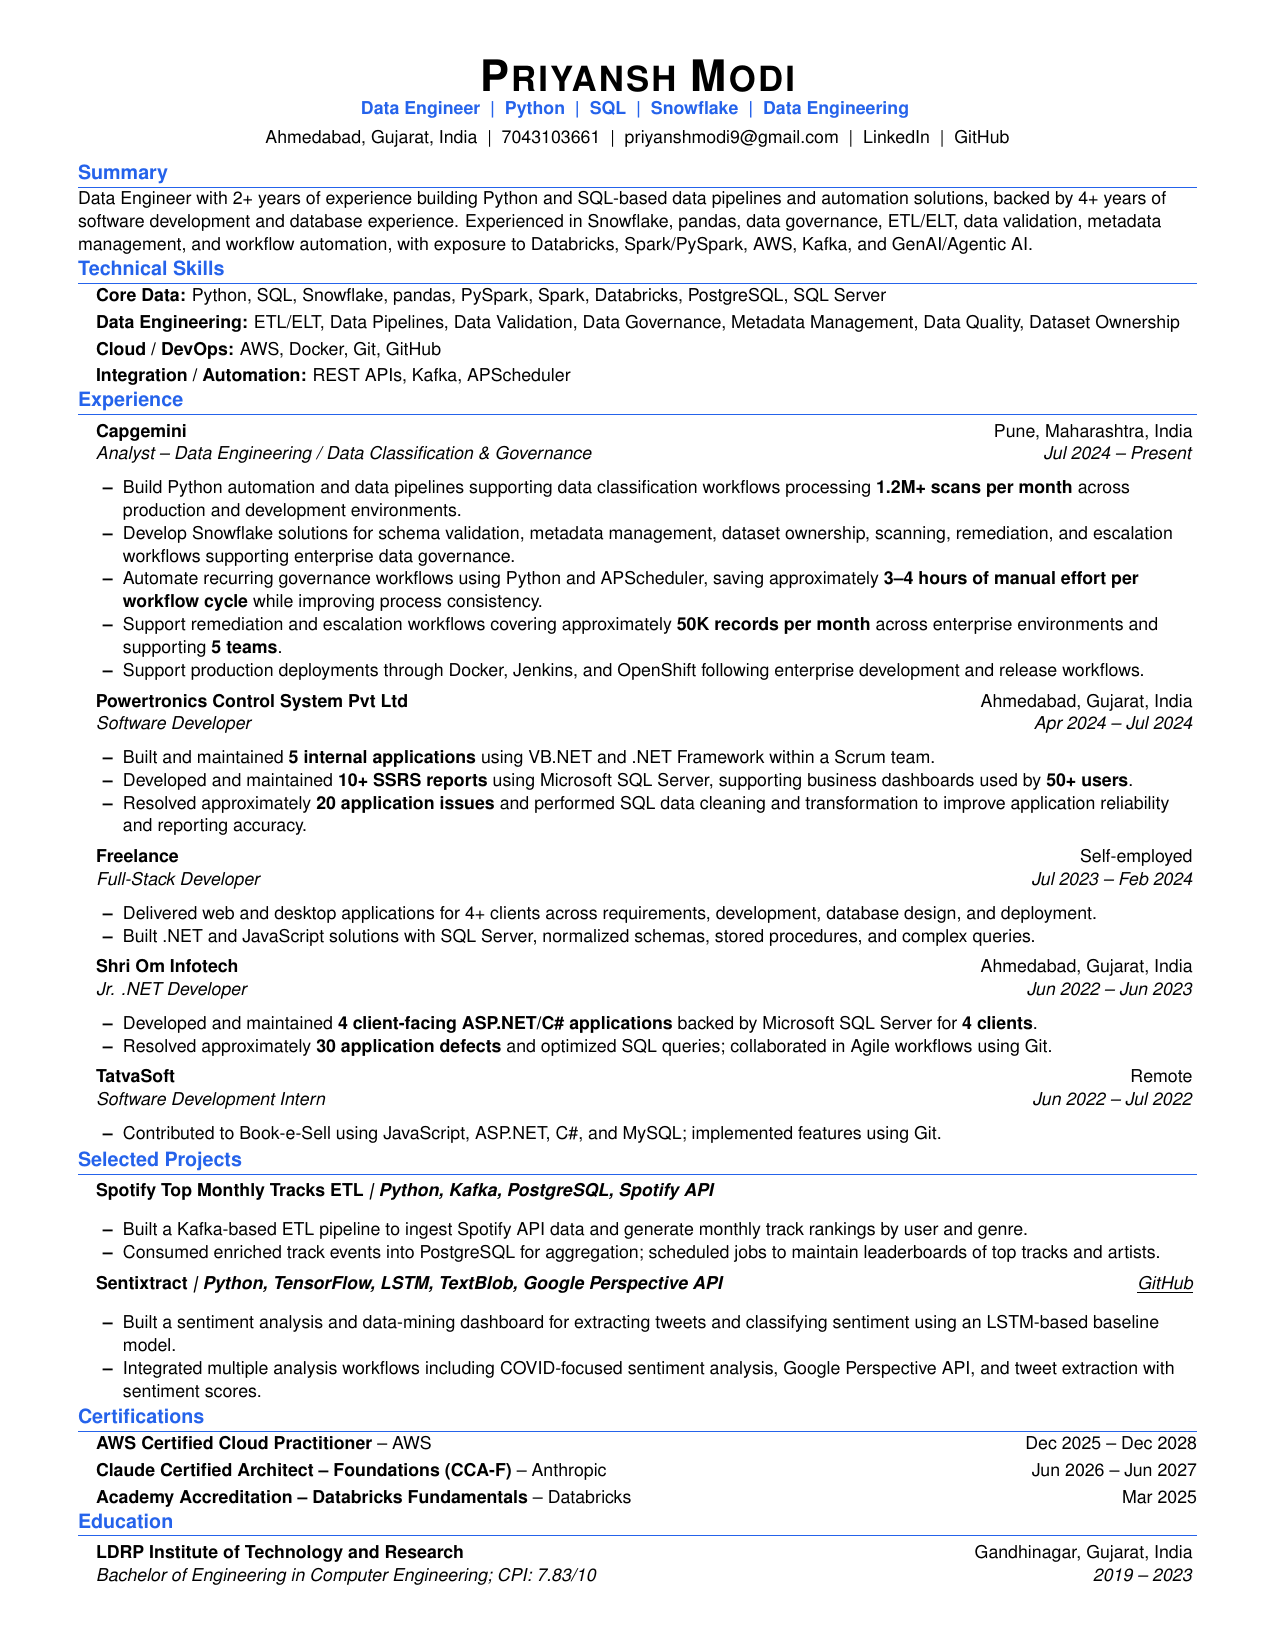
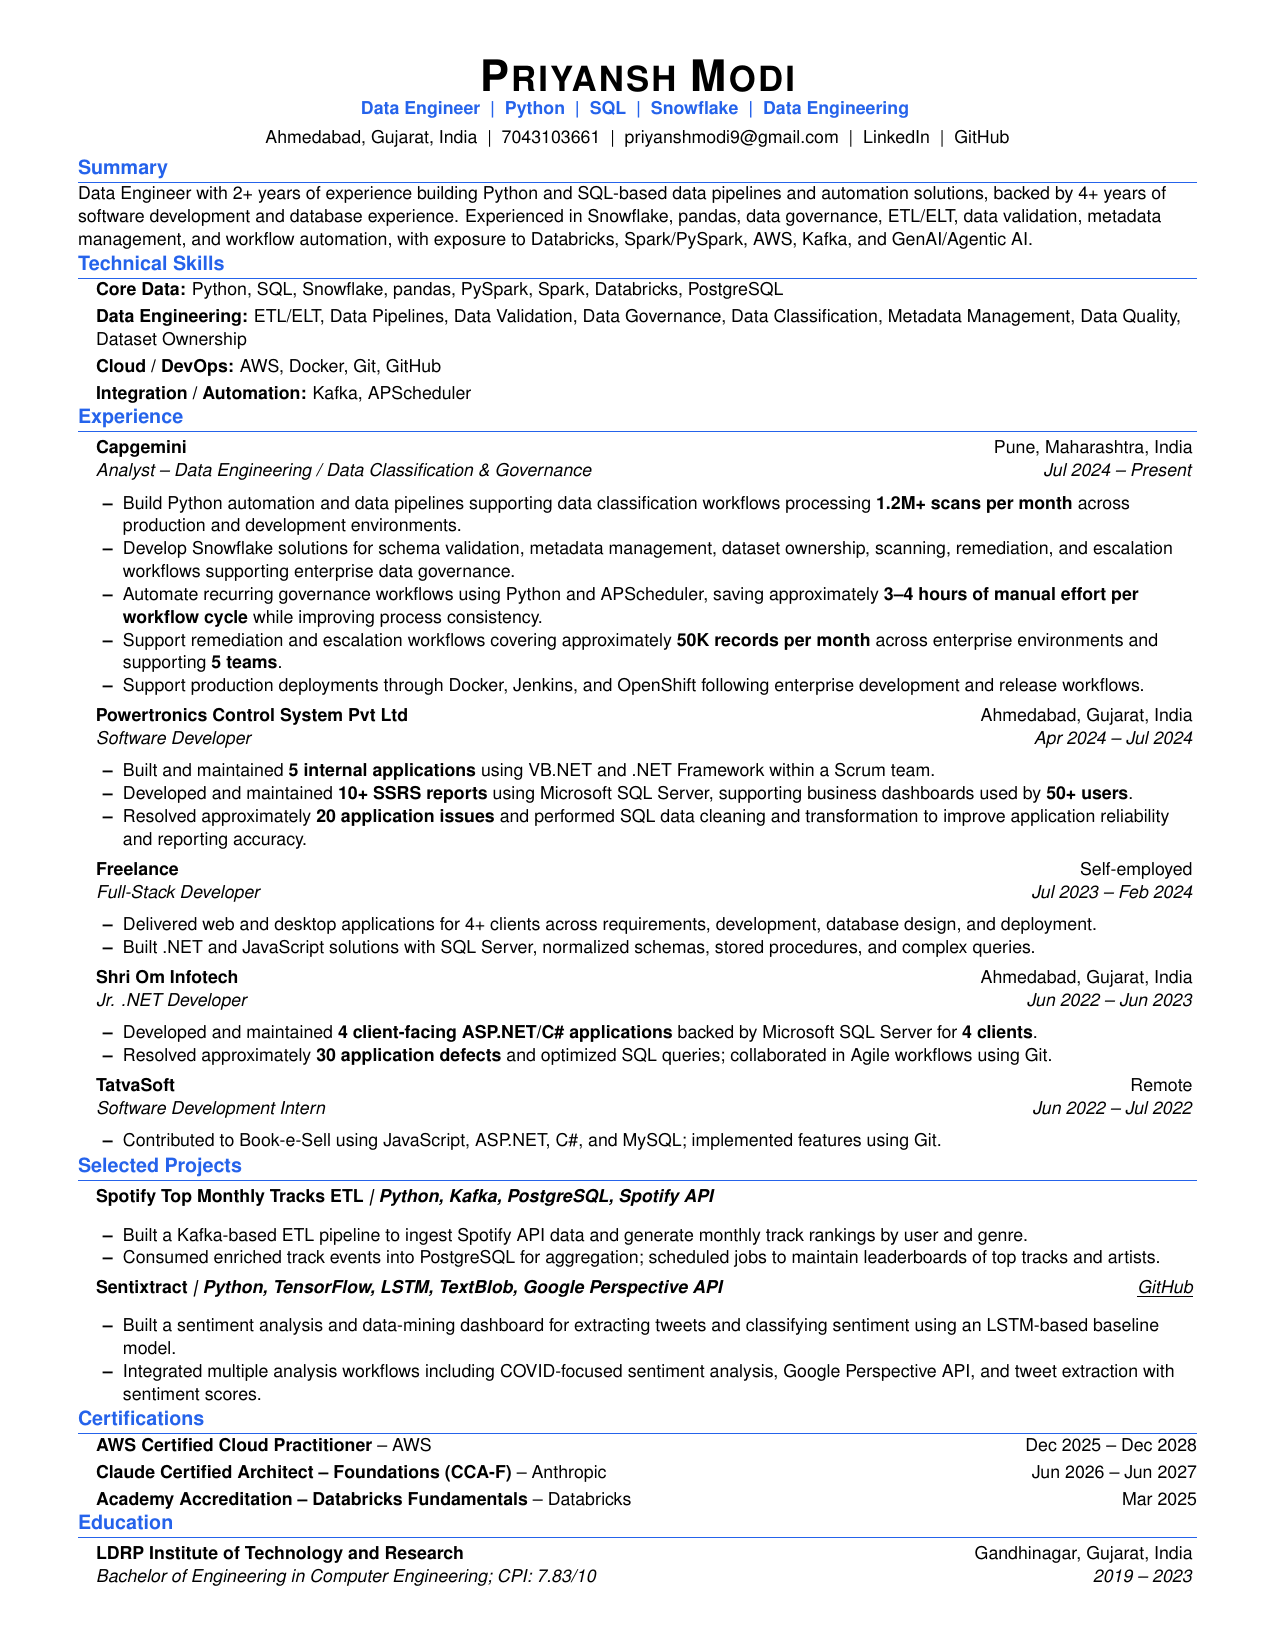
Revise resume content to enhance clarity and focus; update PDF and preview image

Changed region(s): [[0.0612, 0.0927, 0.9482, 0.9582], [0.7647, 0.8655, 0.9482, 0.9582]]

diff --git a/Priyansh_Modi_Resume.tex b/Priyansh_Modi_Resume.tex
@@ -127,10 +127,10 @@ Data Engineer with 2+ years of experience building Python and SQL-based data pip
   parsep=0pt
 ]
 \small
-\item{\textbf{Core Data:} Python, SQL, Snowflake, pandas, PySpark, Spark, Databricks, PostgreSQL, SQL Server}\\[-1pt]
-\item{\textbf{Data Engineering:} ETL/ELT, Data Pipelines, Data Validation, Data Governance, Metadata Management, Data Quality, Dataset Ownership}\\[-1pt]
+\item{\textbf{Core Data:} Python, SQL, Snowflake, pandas, PySpark, Spark, Databricks, PostgreSQL}\\[-1pt]
+\item{\textbf{Data Engineering:} ETL/ELT, Data Pipelines, Data Validation, Data Governance, Data Classification, Metadata Management, Data Quality, Dataset Ownership}\\[-1pt]
 \item{\textbf{Cloud / DevOps:} AWS, Docker, Git, GitHub}\\[-1pt]
-\item{\textbf{Integration / Automation:} REST APIs, Kafka, APScheduler}\\[-1pt]
+\item{\textbf{Integration / Automation:} Kafka, APScheduler}\\[-1pt]
 \end{itemize}
 
 %----------EXPERIENCE----------
